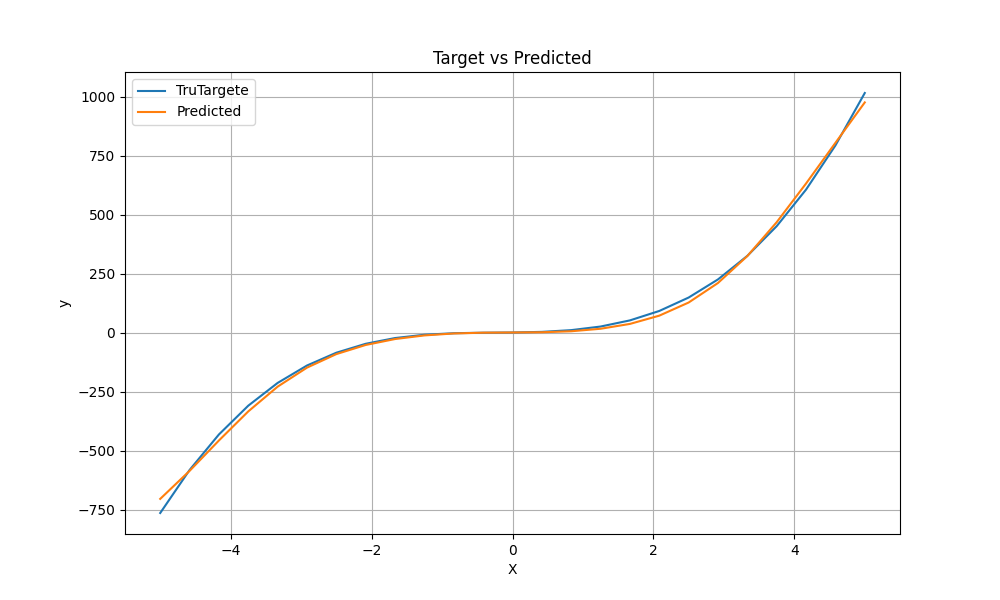
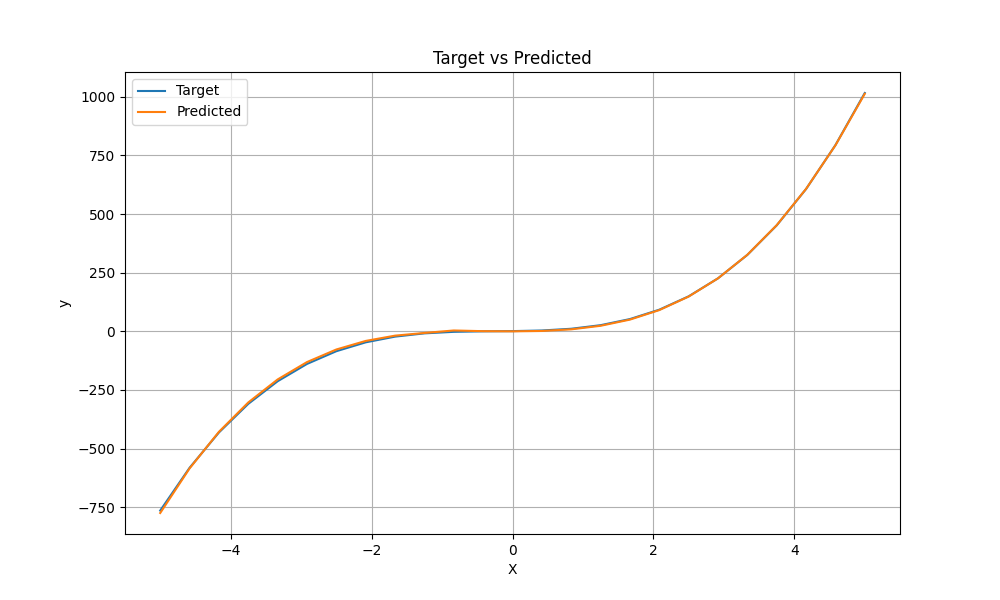
Fix formatting in 1D and 2D benchmark scripts, increase ngenerations in 2D benchmark to 20

diff --git a/benchmark/benchmark2d.py b/benchmark/benchmark2d.py
@@ -35,7 +35,7 @@ model = GeneticProgrammingIslands(
 )
 
 # Fit model
-solution, history = model.fit(ngenerations=15, nsupergenerations=15, nepochs=1, verbose=True)
+solution, history = model.fit(ngenerations=20, nsupergenerations=15, nepochs=1, verbose=True)
 
 # Print best solution
 print("Best solution: {}".format(solution))
@@ -48,8 +48,8 @@ plt.figure(figsize=(10, 6))
 plt.plot(history)
 plt.xlabel('Generation')
 plt.ylabel('Loss (MSE)')
-plt.title('Learning History - {}'.format(solution))
-plt.xticks(np.arange(0, len(history), 1.0))
+plt.title('Learning History')
+plt.xticks(np.arange(0, len(history), 15.0))
 plt.grid()
 plt.savefig('benchmark_learning_history_2d.png')
 

diff --git a/benchmark/benchmark1d.py b/benchmark/benchmark1d.py
@@ -43,8 +43,8 @@ plt.figure(figsize=(10, 6))
 plt.plot(history)
 plt.xlabel('Generation')
 plt.ylabel('Loss (MSE)')
-plt.title('Learning History - {}'.format(solution))
-plt.xticks(np.arange(0, len(history), 1.0))
+plt.title('Learning History')
+plt.xticks(np.arange(0, len(history), 5.0))
 plt.grid()
 plt.savefig('benchmark_learning_history_1d.png')
 
@@ -55,7 +55,7 @@ print("Predicted values: {}".format(y_predicted))
 
 # Compare target and predicted values
 plt.figure(figsize=(10, 6))
-plt.plot(X, y, label='TruTargete')
+plt.plot(X, y, label='Target')
 plt.plot(X, y_predicted, label='Predicted')
 plt.xlabel('X')
 plt.ylabel('y')
